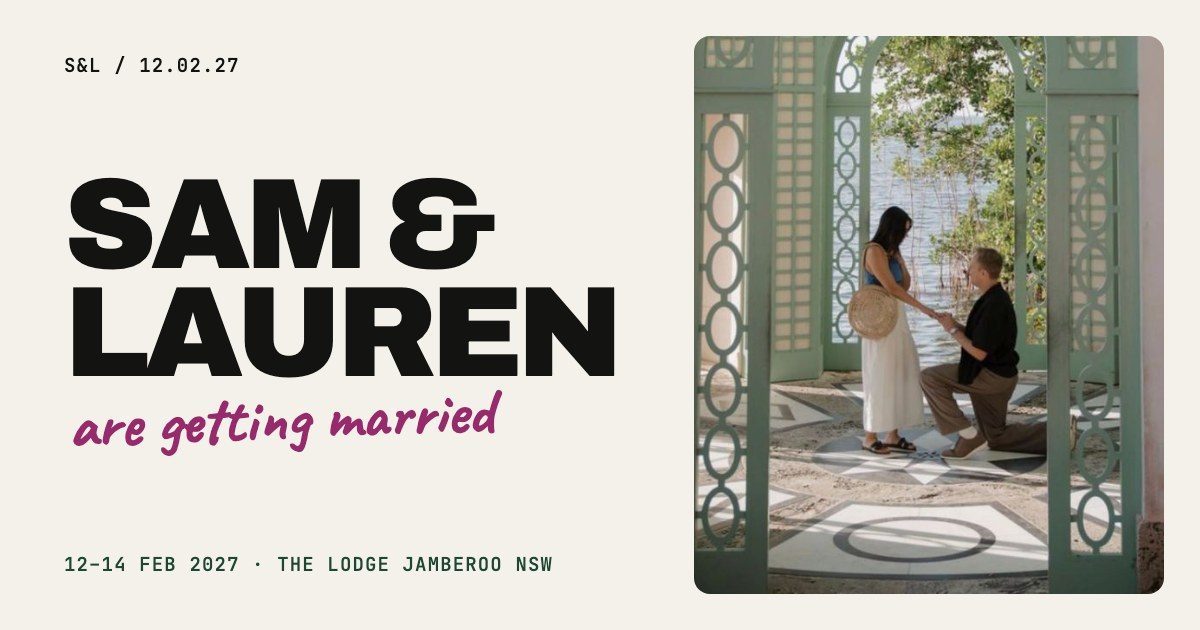
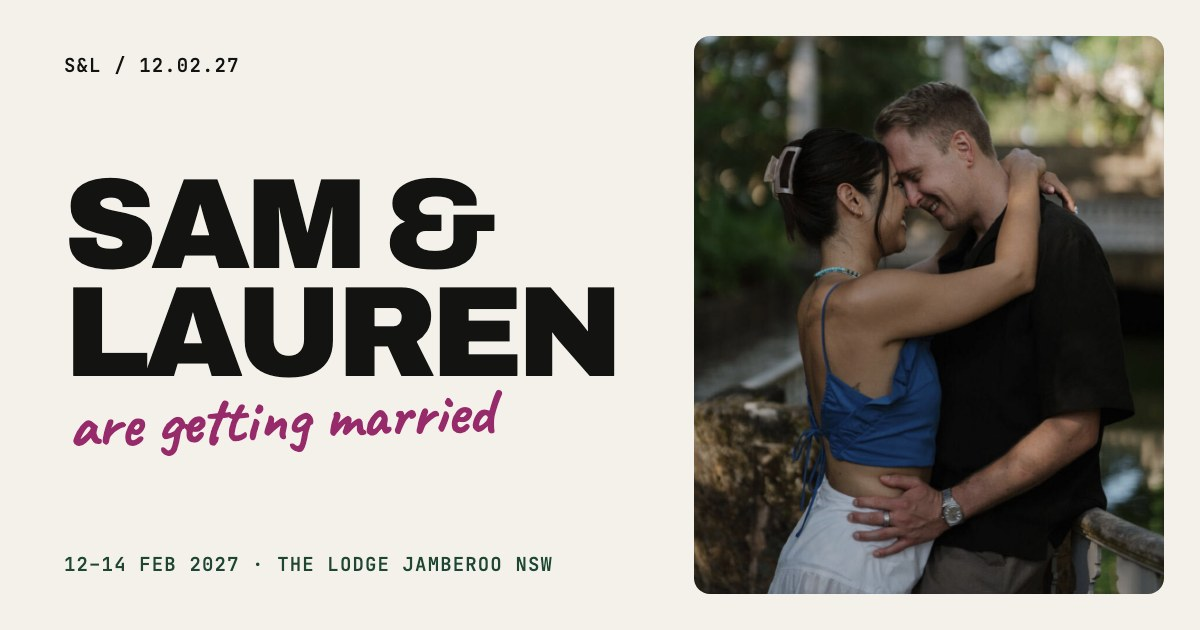
Use the embrace photo in the link preview

diff --git a/tools/og/open-graph.html b/tools/og/open-graph.html
@@ -6,7 +6,7 @@
   The link preview — what WhatsApp, iMessage, Slack and the rest show when someone shares the site.
   Rendered to assets/images/open-graph.jpg by `yarn og:build`, at the 1200×630 every platform crops
   to. Drawn like the invitation email (tools/emails/header.html): the names in heavy Archivo capitals,
-  the handwritten plum byline, the mono date bar, and the proposal photo.
+  the handwritten plum byline, the mono date bar, and a photo of the two of them (photo.jpg).
 -->
     <link rel="preconnect" href="https://fonts.googleapis.com" />
     <link
@@ -69,7 +69,7 @@
         width: 470px;
         flex-shrink: 0;
         border-radius: 16px;
-        background: url('../emails/img/photo.jpg') 46% center / cover no-repeat;
+        background: url('photo.jpg') 50% 22% / cover no-repeat;
       }
     </style>
   </head>
@@ -81,7 +81,7 @@
         <div class="byline">are getting married</div>
         <div class="mono foot">12–14 Feb 2027 · The Lodge Jamberoo NSW</div>
       </div>
-      <div class="photo" role="img" aria-label="Sam proposing to Lauren under a green garden arch by the water"></div>
+      <div class="photo" role="img" aria-label="Sam and Lauren embracing, foreheads together, by the water"></div>
     </div>
   </body>
 </html>
